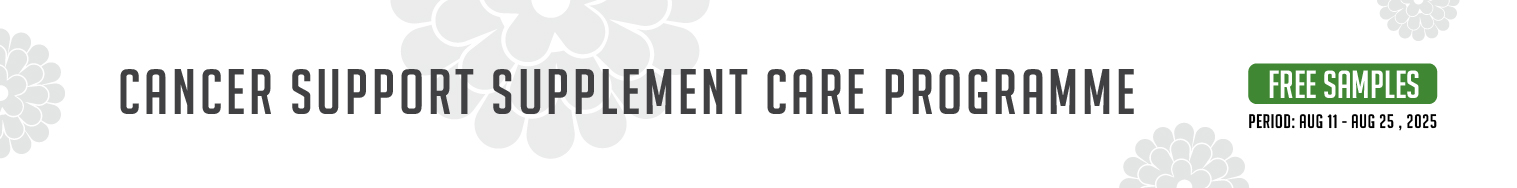
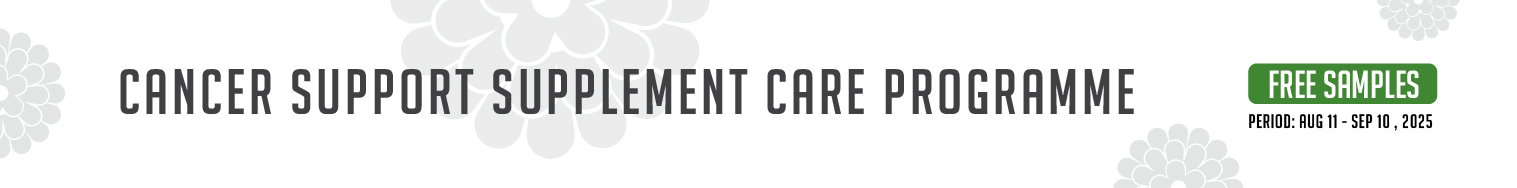
change 1

diff --git a/src/pages/our-affiliations.js b/src/pages/our-affiliations.js
@@ -19,32 +19,6 @@ const Affiliation = () => {
           <div>
             <h2 className="text-center text-green 2xl:text-7xl lg:text-5xl text-4xl sm:mb-8 mb-4 uppercase">Affiliation</h2>
             <div className="grid grid-cols-1 sm:grid-cols-2 sm:divide-x max-w-4xl mx-auto">
-              <div className="flex flex-col items-center py-4 px-8">
-                <div className="text-center">
-                  <Image
-                    width={148}
-                    height={75}
-                    alt="logo"
-                    className='w-full'
-                    src="/affiliation/logo-1.png"
-                  />
-                </div>
-                <span className="text-center md:text-3xl text-2xl mt-4 block leading-none">American BriVision Corp (ABVC)</span>
-              </div>
-              <div className="flex flex-col items-center py-4 px-8">
-                <div className="text-center">
-                  <Image
-                    width={334}
-                    height={75}
-                    alt="logo"
-                    className='w-full'
-                    src="/affiliation/logo-2.png"
-                  />
-                </div>
-                <span className="text-center md:text-3xl text-2xl mt-4 block leading-none">Sloan Kettering Cancer Center</span>
-              </div>
-            </div>
-            <div className="grid grid-cols-1 sm:grid-cols-2 sm:divide-x max-w-4xl mx-auto">
               <div className="flex flex-col items-center py-8 px-8">
                 <div className="text-center">
                   <Image
@@ -81,15 +55,6 @@ const Affiliation = () => {
               className='w-full'
               src="/affiliation/map.png"
             />
-            <div className="w-[34%] absolute top-1/2 left-1/2 transform -translate-x-1/2 -translate-y-1/2">
-              <Image
-                width={557}
-                height={534}
-                alt="logo"
-                className='w-full'
-                src="/affiliation/people.png"
-              />
-            </div>
           </div>
           <Image
             width={278}

diff --git a/src/pages/application-form.js b/src/pages/application-form.js
@@ -1,6 +1,7 @@
 import { useRef, useState } from "react";
 import Image from "next/image";
 import Navbar from "@layout/navbar/Navbar";
+import Footer from "@layout/footer/Footer";
 import "swiper/css";
 import "swiper/css/navigation";
 import "swiper/css/pagination";
@@ -96,8 +97,16 @@ const OrderNow = () => {
 		<div>
 			<Navbar />
 			<div className="container">
+				
+					<Image
+						src="/video/application-banner.jpg"
+						alt="Banner"
+						className="w-[80%] mx-auto"
+						width={1517}
+						height={188}
+					/>
 				<div className="w-[80%] mx-auto text-sm text-gray-700 bg-limebg p-20">
-					<p className="text-right text-greyblack2">Free Sample Period : Aug 11  -  Aug 25</p>
+					<p className="text-right text-greyblack2">Free Sample Period : Aug 11  -  Sep 10</p>
 					<h2 className="text-green text-center 2xl:text-5xl text-3xl py-20">
 						REQUEST APPLICATION FOR <span className="block">FREE SHOGUN BLACK MAITAKE PROTHERA & EX TABLET SAMPLES</span>
 					</h2>
@@ -467,6 +476,7 @@ const OrderNow = () => {
 					</p>
 				</div>
 			</div>
+			<Footer/>
 		</div>
 	);
 };

diff --git a/src/pages/index.js b/src/pages/index.js
@@ -13,16 +13,19 @@ const Home = () => {
 					<source src="/video/shogun-video.mp4" type="video/mp4" controls />
 					Your browser does not support the video tag.
 				</video>
-				<Link href="/application-form">
-					<Image
-						src="/video/application-banner.jpg"
-						alt="Banner"
-						className="w-full absolute bottom-0"
-						width={1517}
-						height={188}
-					/>
-				</Link>
-
+				<div className="relative">
+					<div className="container">
+						<Link href="/application-form">
+							<Image
+								src="/video/application-banner.jpg"
+								alt="Banner"
+								className="w-full absolute w-2/3 mx-auto right-0 bottom-0 left-0"
+								width={1517}
+								height={188}
+							/>
+						</Link>
+					</div>
+				</div>
 			</div>
 		</>
 	);

diff --git a/src/pages/api/sendEmail.js b/src/pages/api/sendEmail.js
@@ -24,7 +24,7 @@ export default async function handler(req, res) {
     await transporter.sendMail({
       from: "orders@shogunmaitake.com",
       to,
-      cc: "jjacob@shogunmaitake.com,roxann.sinclair@eshipper.com",
+      cc: ['jjacob@shogunmaitake.com', 'roxann.sinclair@eshipper.com'],
       subject,
       text,
       html,
